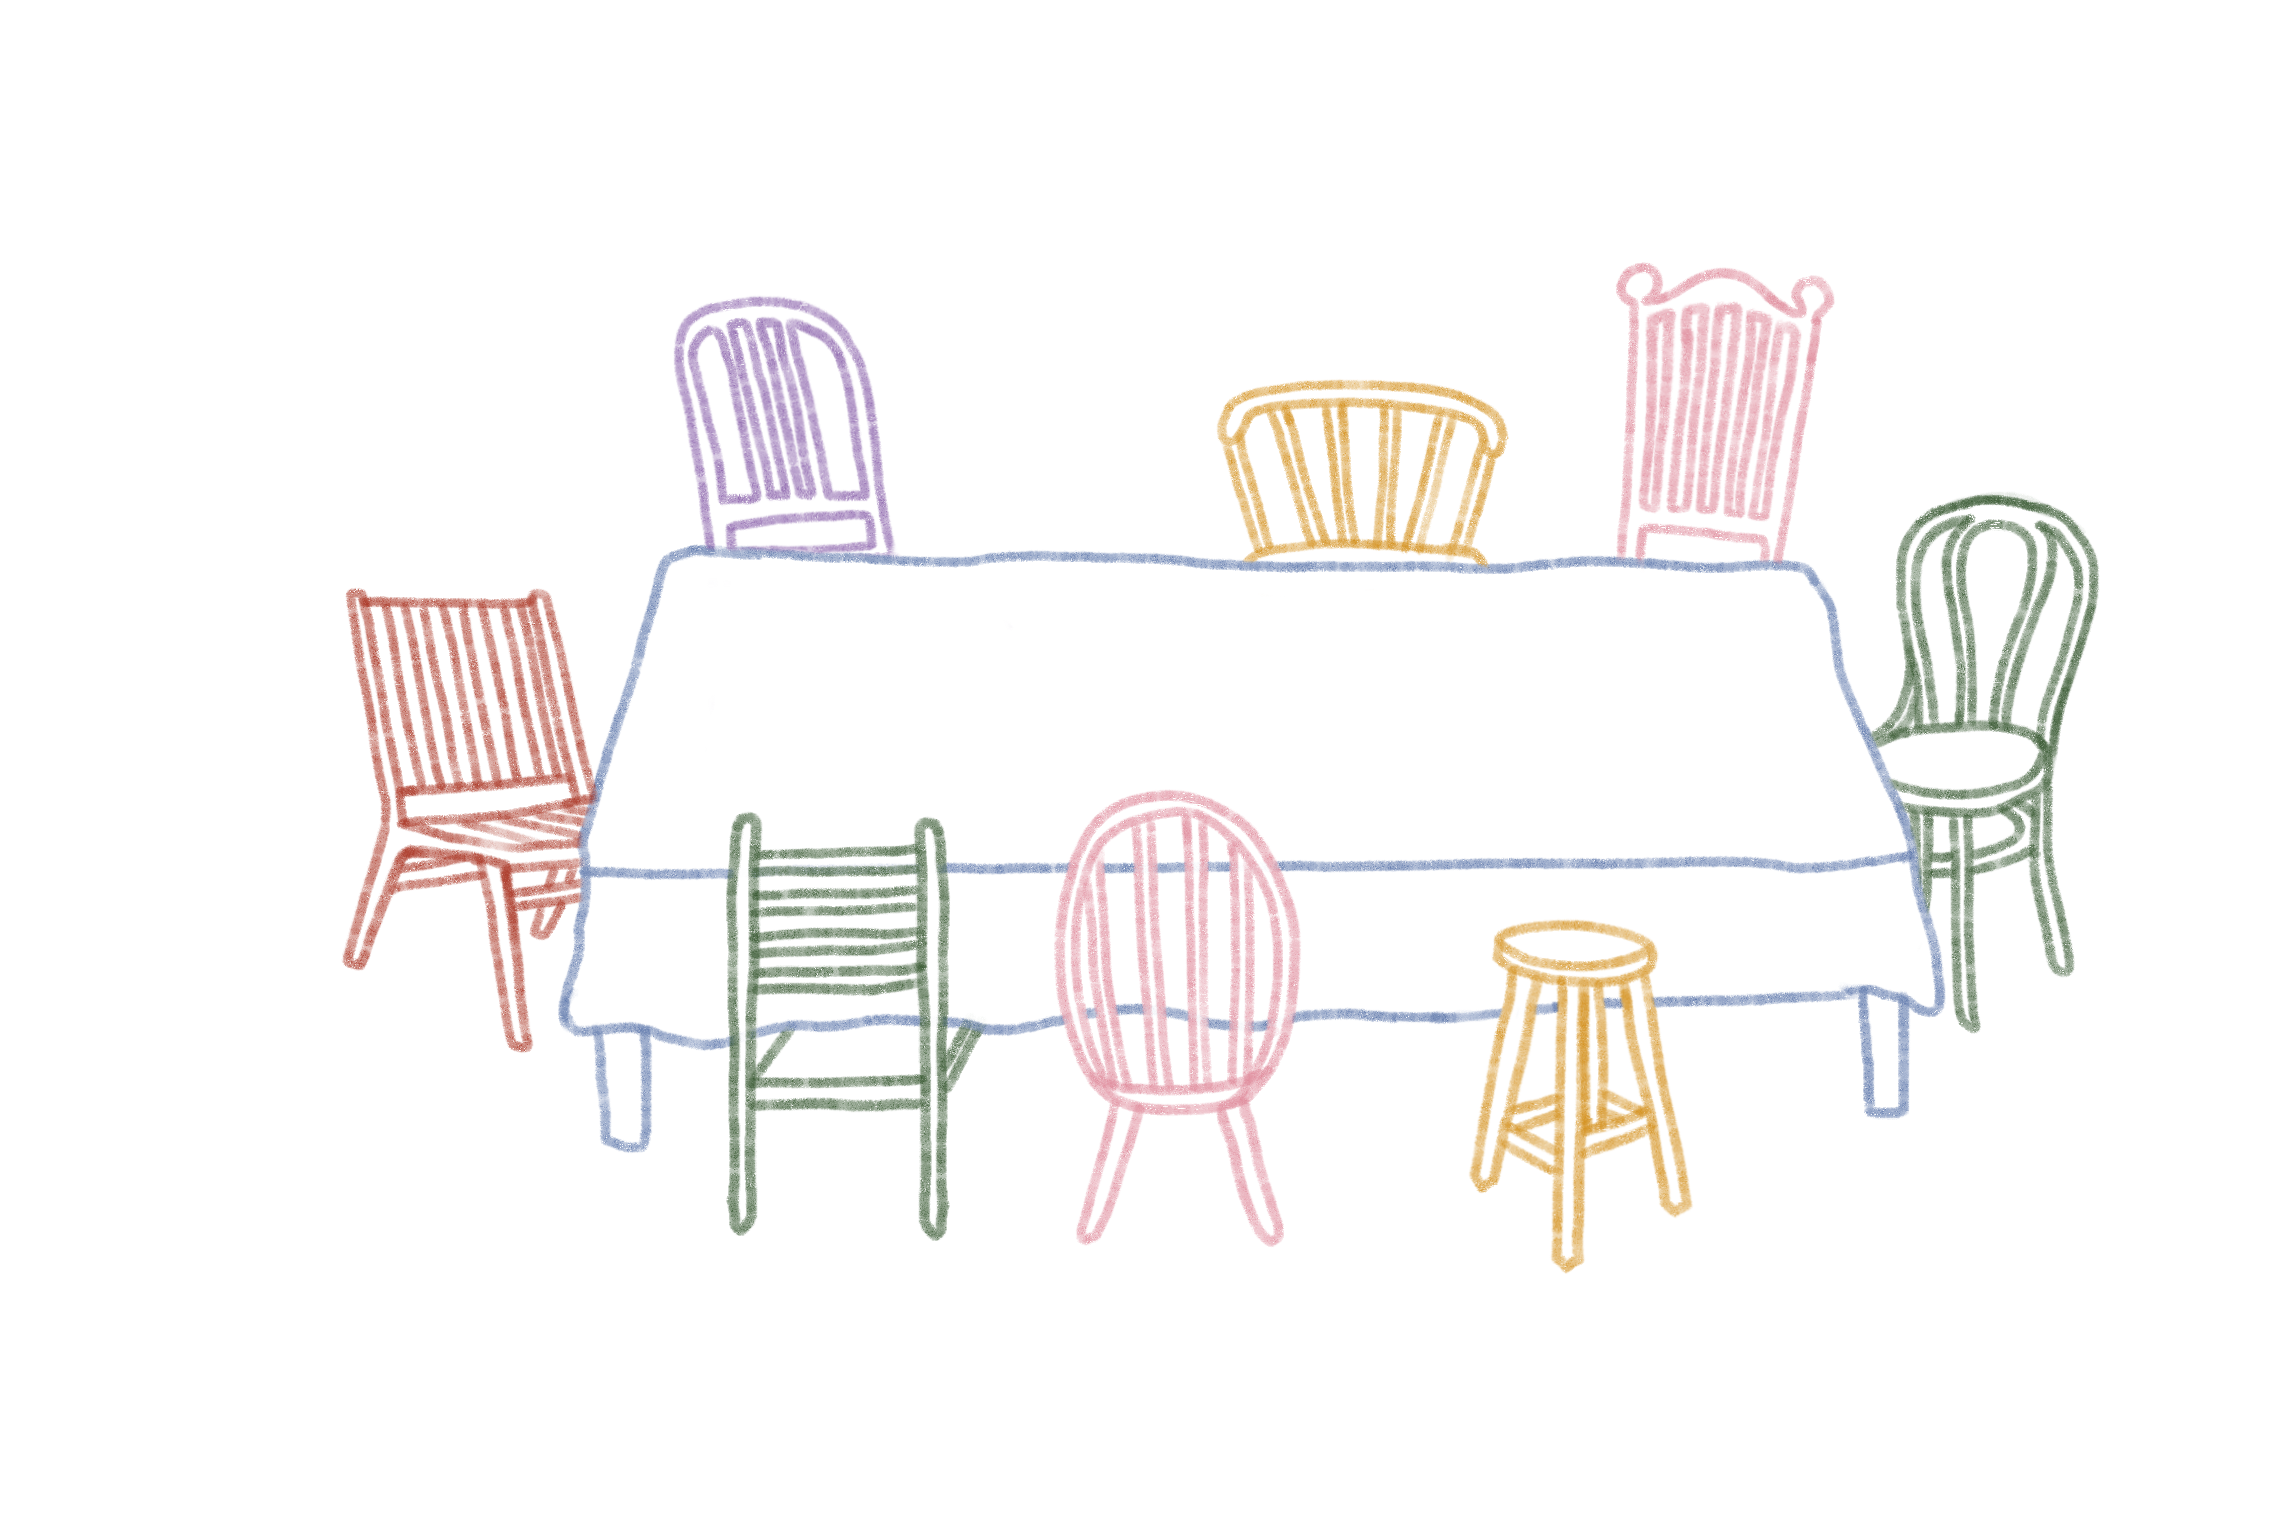
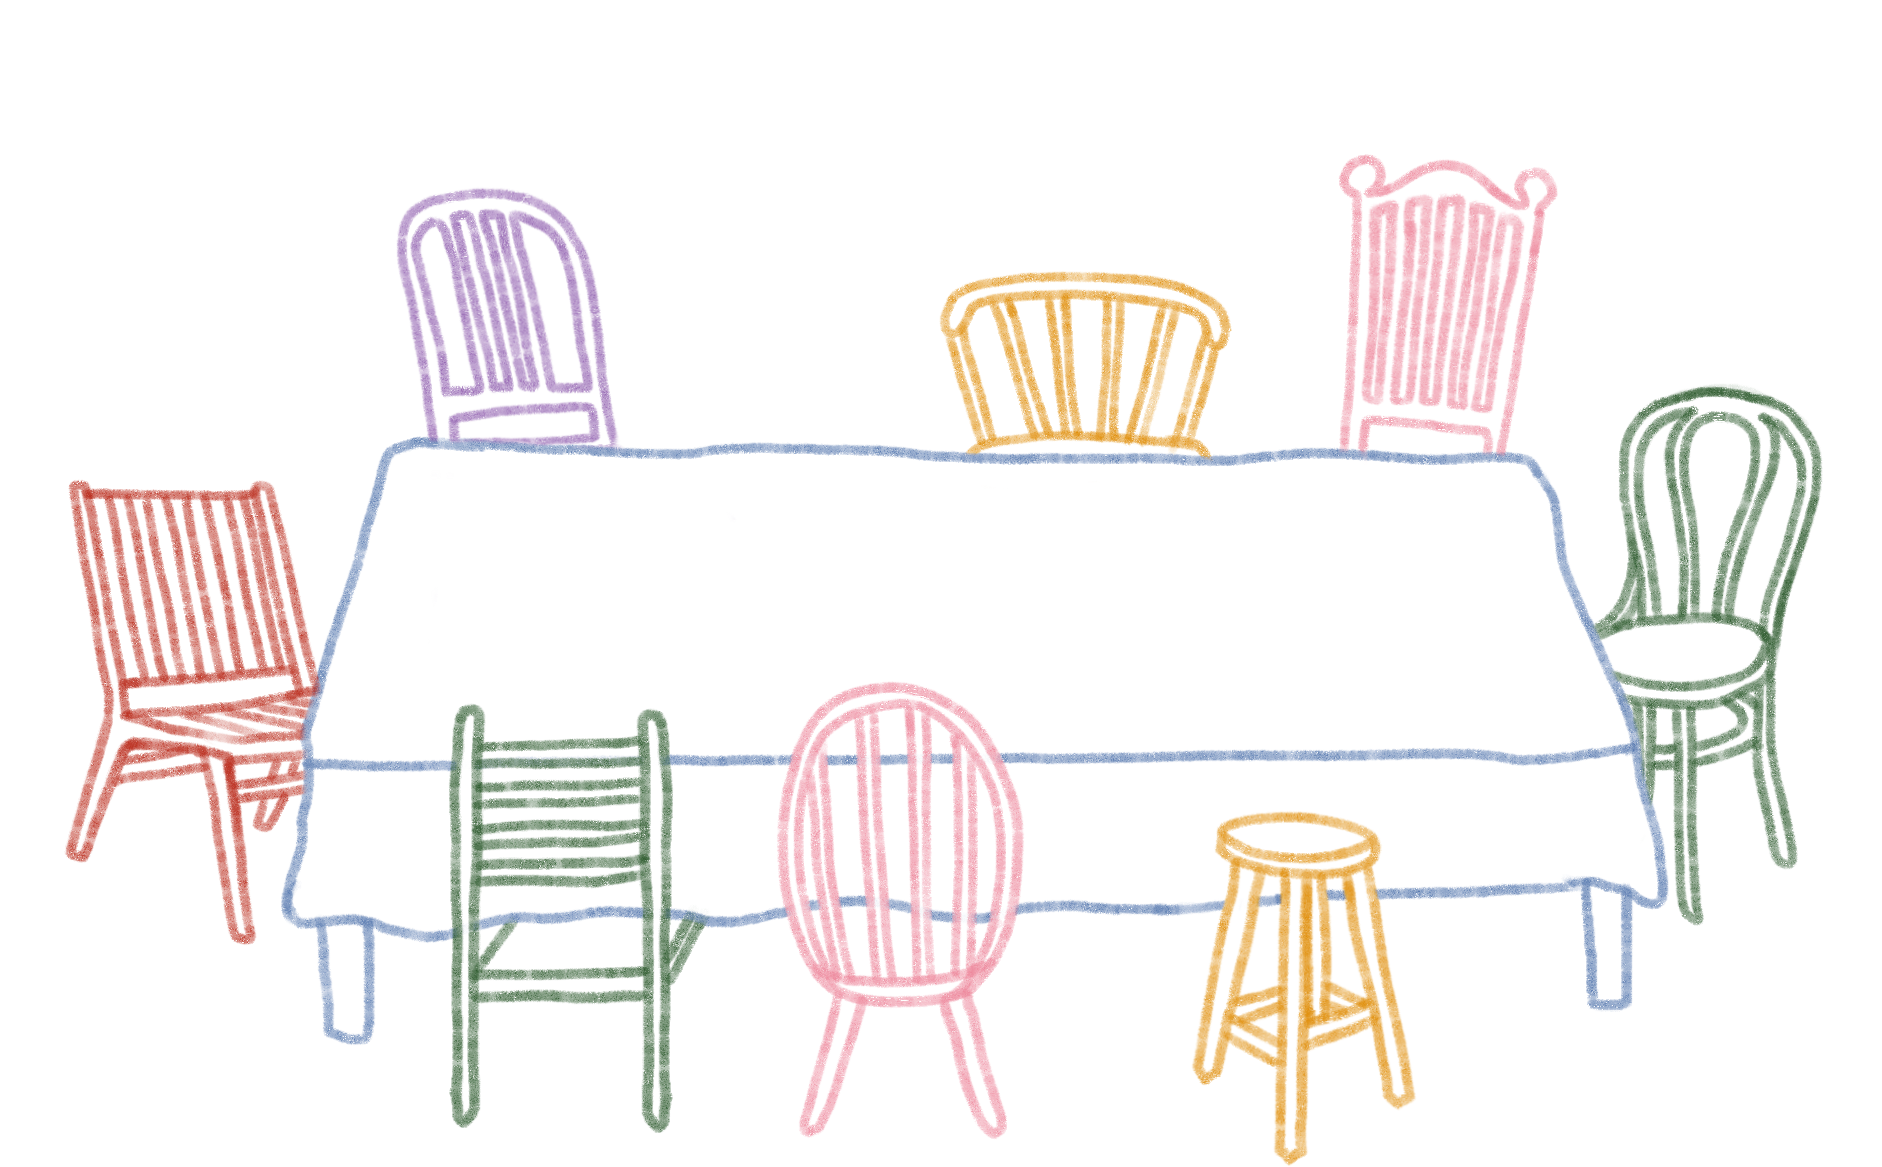
op

Changed region(s): [[0.0308, 0.1234, 0.9862, 1.0]]

diff --git a/faellesskaal.html b/faellesskaal.html
@@ -59,7 +59,7 @@
 <!--BAGGRUNDSBILLEDE-->
 <!--position-relative: gør container til ref. for det, som skal placeres ovenpå-->
 <div class="container-fluid orange">
-  <div class="hero-sektion position-relative">
+  <div class="hero-sektion position-relative d-flex justify-content-center">
     <img class="bordhero" src="img/bord.png" alt="">
 
 

diff --git a/stylesheet.css b/stylesheet.css
@@ -362,6 +362,11 @@ button {
   }
   
 
+  /* ---------FÆLLESSKÅL---------- */
+  .bordhero {
+    width: 55%;
+
+  }
 
 
 
